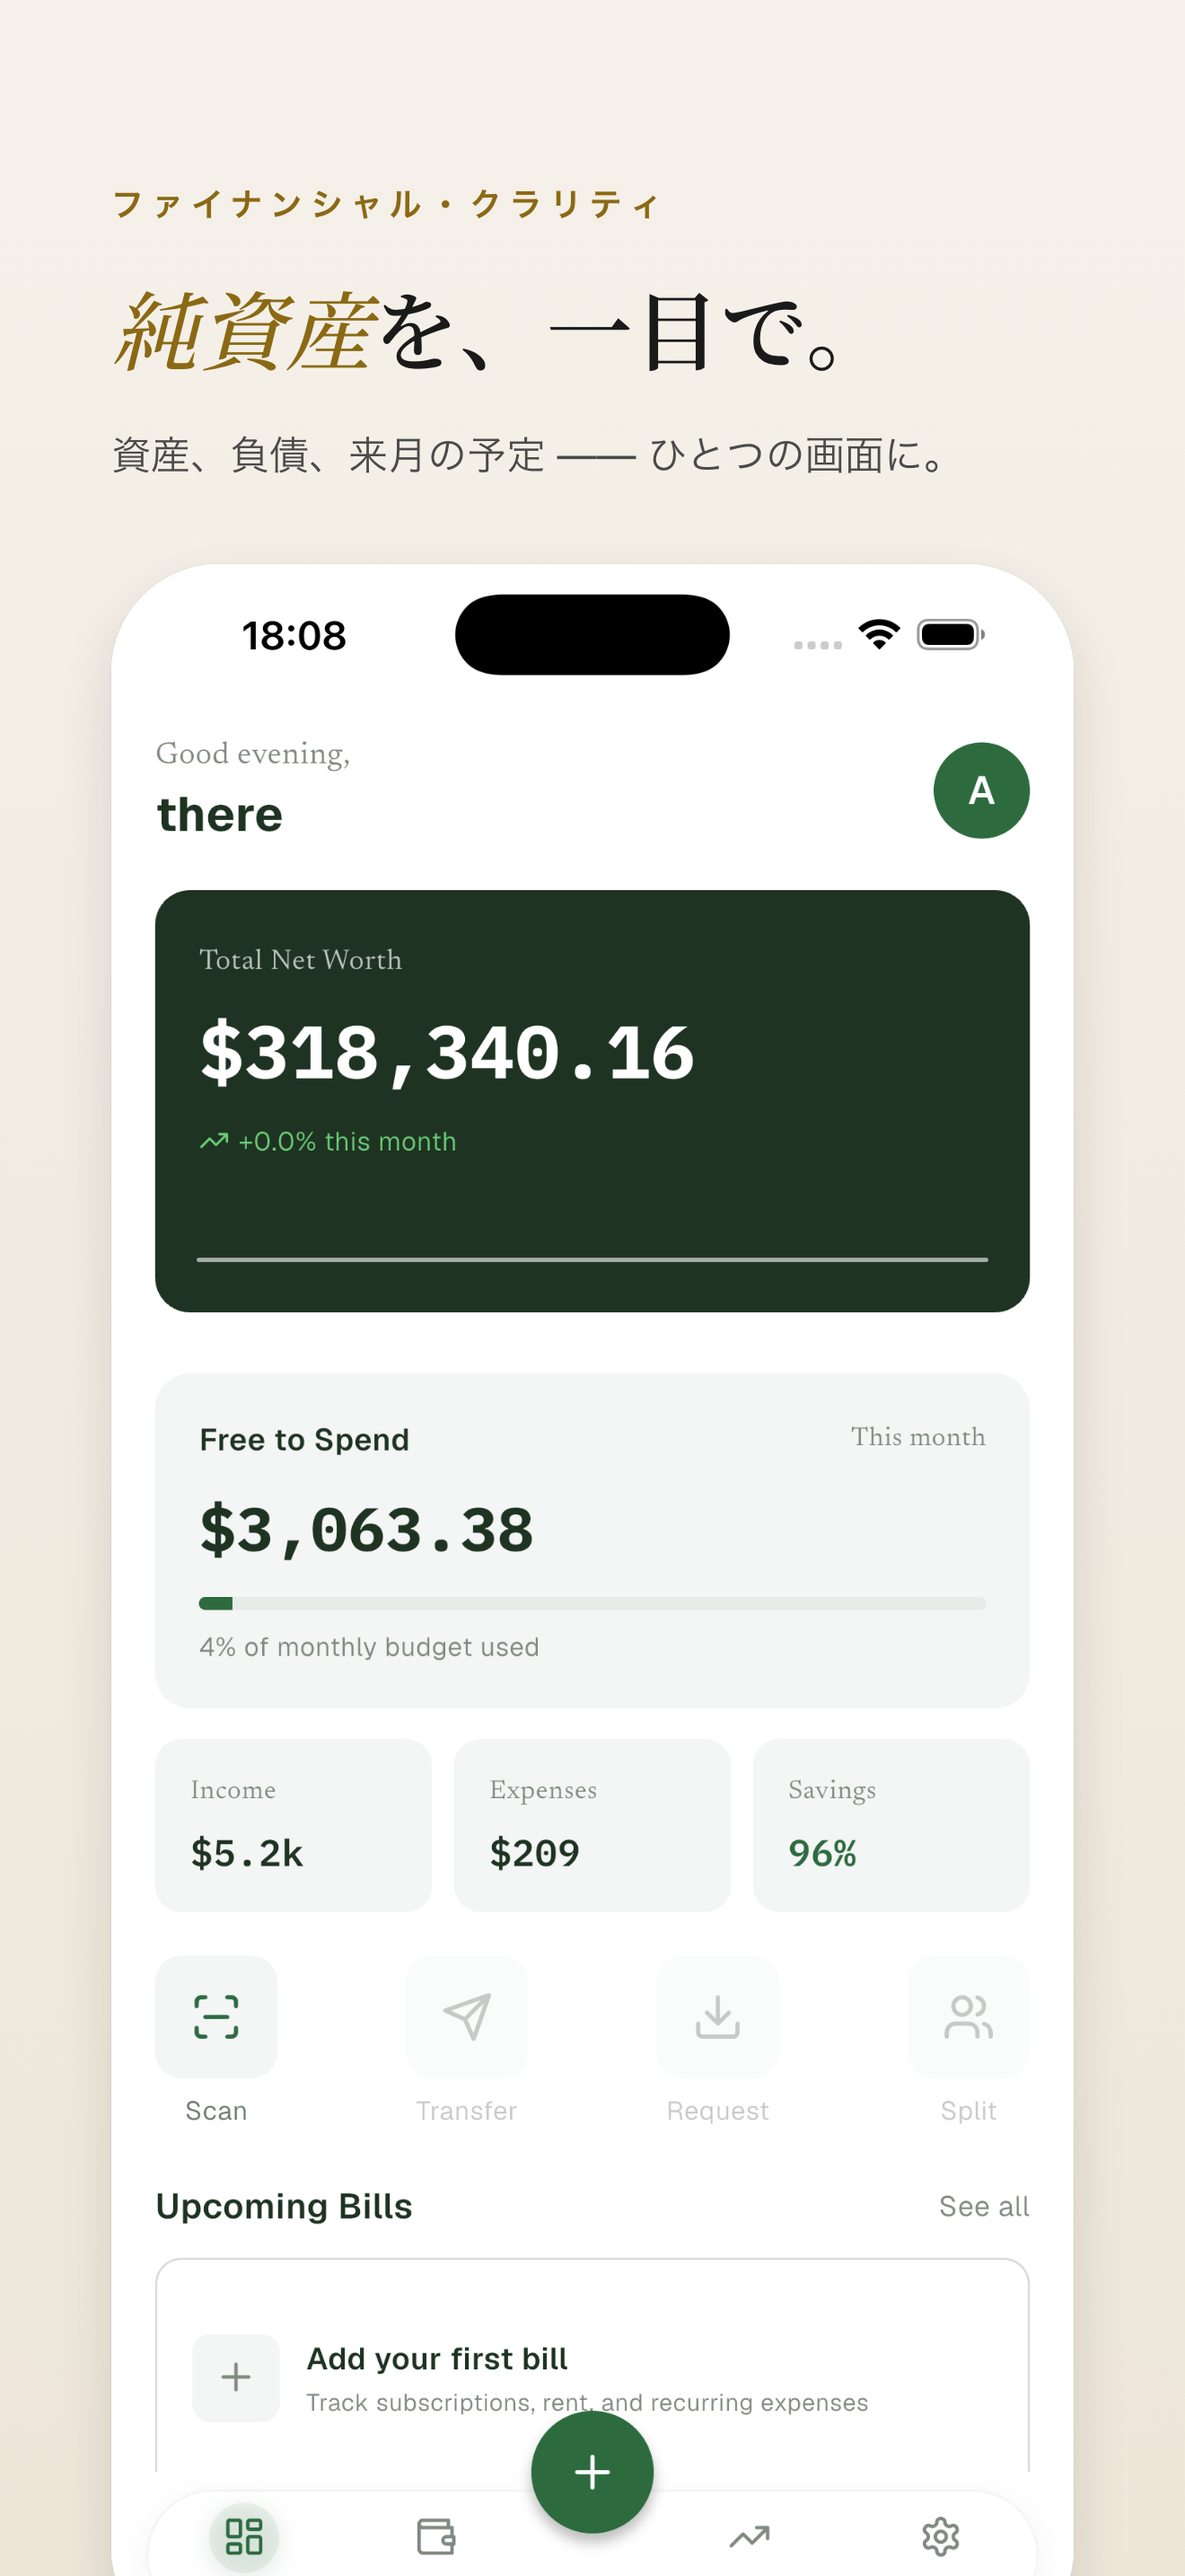
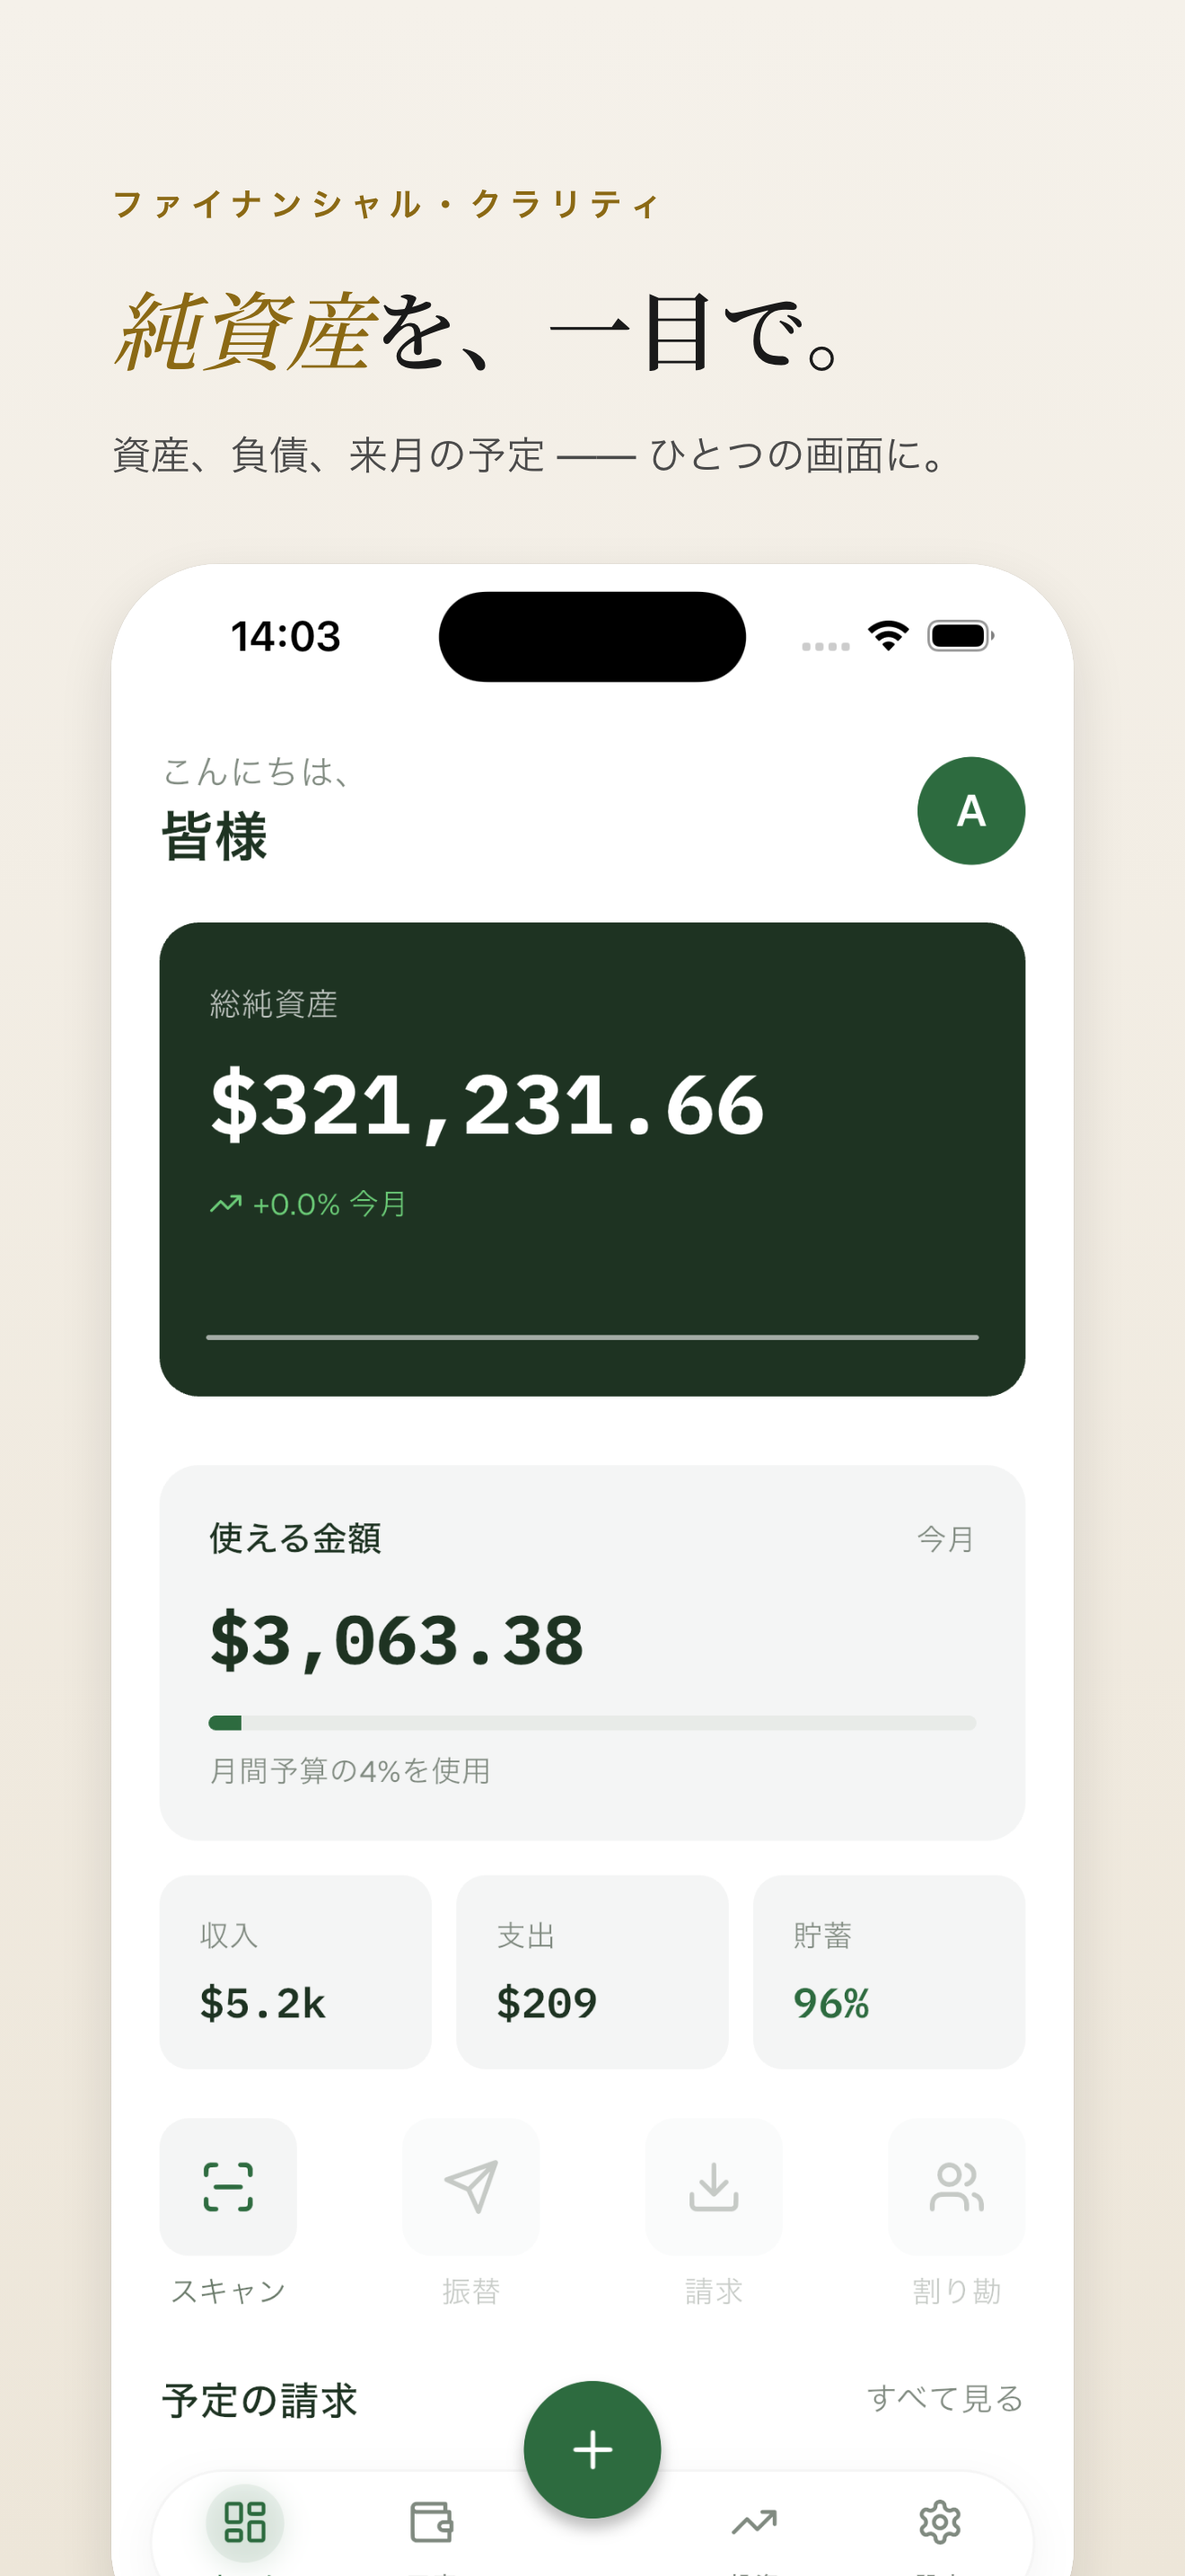
feat(i18n): add Korean (ko) locale; refresh zh/zh-Hant/ja/ko screenshots
- New ko locale: i18n/ko.json, /ko routes (index, features, privacy, terms),
  privacy-ko.md, terms-ko.md, registered in LOCALES, LOCALE_LABELS, astro.config
- Sync 9 updated app-store screenshots from moneywise/assets/appstore for
  zh, zh-Hant, ja, and add ko/ asset set

diff --git a/src/config/site.ts b/src/config/site.ts
@@ -1,4 +1,4 @@
-export const LOCALES = ['en', 'zh', 'zh-Hant', 'ja'] as const;
+export const LOCALES = ['en', 'zh', 'zh-Hant', 'ja', 'ko'] as const;
 export type Locale = typeof LOCALES[number];
 export const DEFAULT_LOCALE: Locale = 'en';
 
@@ -21,6 +21,7 @@ export const LOCALE_LABELS: Record<Locale, string> = {
   'zh': '简体中文',
   'zh-Hant': '繁體中文',
   'ja': '日本語',
+  'ko': '한국어',
 };
 
 export const PRICING = {

diff --git a/src/content/legal/privacy-ko.md b/src/content/legal/privacy-ko.md
@@ -1,0 +1,67 @@
+---
+title: 개인정보 처리방침
+effective: 2026-04-18
+---
+
+# 개인정보 처리방침
+
+**시행일:** 2026-04-18
+
+본 방침은 MoneyWise가 사용자의 데이터를 어떻게 처리하는지 설명합니다.
+
+## 요약 (TL;DR)
+
+- 모든 금융 기록은 암호화된 로컬 데이터베이스로 **사용자의 기기에** 저장됩니다.
+- 앱 내에서는 **개인을 식별할 수 있는 분석 데이터를 일절 수집하지 않습니다** — 크래시 리포터도, 트래킹 SDK도 사용하지 않습니다.
+- **클라우드 동기화**를 활성화하면 데이터는 기기를 떠나기 전에 암호화됩니다. 암호화된 행은 Supabase에 저장되며, 저희는 그 내용을 읽을 수 없습니다.
+- 본인의 API 키로 **AI 어드바이저**를 사용할 경우, 요청은 기기에서 AI 제공자에게 직접 전송됩니다. 저희는 그 요청을 중계하거나 기록하거나 라우팅하지 않습니다.
+- 이 웹사이트(`moneywise.airingdeng.com`)는 프라이버시를 존중하는 쿠키 없는 페이지뷰 분석을 위해 **Umami**를 사용합니다. IP 주소나 개인 식별 정보는 저장되지 않습니다.
+
+## MoneyWise가 수집하는 정보
+
+**사용자의 기기 안에서**(동기화를 활성화하지 않는 한 전송되지 않음):
+- 계정·잔액·거래 기록·예산·투자 보유 종목.
+- 사용자가 첨부하기로 선택한 영수증 이미지.
+- AI 제공자의 API 키 (iOS 키체인에 저장).
+
+**클라우드 동기화가 활성화된 경우**(Pro 구독자):
+- 위의 데이터를 암호화한 행 (저희가 운영하는 Supabase 서버에 저장). 암호화 키는 기기에 남아 있습니다.
+- Supabase 계정용 이메일 주소 (로그인 용도로만 사용).
+- 동기화 시 다른 기기를 식별하기 위한 기기 식별자.
+
+**Pro의 공용 AI 크레딧을 사용할 경우**(추후 기능, v1에는 포함되지 않음):
+- 사용자의 프롬프트와 어드바이저의 응답은 저희 Supabase Edge Function을 거쳐 라우팅됩니다. 로그는 남용 방지를 위해 7일간 보관된 뒤 삭제됩니다.
+
+**이 웹사이트에서:**
+- Umami가 기록하는 항목: 조회한 페이지·리퍼러·국가(대략)·브라우저/OS(대략)·화면 크기. 개인을 식별하는 정보는 포함되지 않습니다.
+- 쿠키 없음. 트래킹 픽셀 없음. 광고 네트워크 없음.
+
+## MoneyWise가 수집하지 **않는** 정보
+
+- 정확한 위치 정보를 수집하지 않습니다.
+- 데이터를 제3자에게 공유·판매·임대하지 않습니다.
+- 광고를 게재하지 않습니다.
+- 사용자의 금융 기록을 읽지 않습니다. 클라우드 동기화 데이터는 암호화되어 있어 저희에게는 불투명한 바이트 열로만 보입니다.
+
+## 사용자의 권한
+
+- **내보내기**: 앱 내에서 모든 기록을 CSV로 내보낼 수 있습니다.
+- **삭제**: 앱을 삭제하면 모든 로컬 데이터가 제거됩니다. 클라우드 동기화를 사용했다면 아래 연락처로 삭제 요청을 보내주세요.
+- **동기화 중지**: 설정에서 클라우드 동기화를 끄면 30일 이내에 서버에서 암호화된 행 데이터가 삭제됩니다.
+
+## 제3자 서비스
+
+| 서비스 | 용도 | 위치 |
+|---|---|---|
+| Supabase | 클라우드 동기화 백엔드, 인증 | eu-west (아일랜드) |
+| Apple | App Store, 인앱 결제, iCloud 키체인 | Apple |
+| 사용자가 선택한 AI 제공자 (Anthropic, OpenAI) | AI 어드바이저 요청은 사용자의 키로 기기에서 직접 전송 | 미국 |
+| Umami (셀프 호스트) | 익명 웹사이트 분석 | 저희 서버 |
+
+## 문의
+
+개인정보 관련 요청이나 문의: **bellehou2026@gmail.com**
+
+## 변경 사항
+
+본 방침을 변경하는 경우 위의 시행일을 갱신합니다. 중요한 변경이 있을 경우 다음 앱 실행 시 인앱 알림으로 안내합니다.

diff --git a/src/content/legal/terms-ko.md b/src/content/legal/terms-ko.md
@@ -1,0 +1,62 @@
+---
+title: 이용 약관
+effective: 2026-04-18
+---
+
+# 이용 약관
+
+**시행일:** 2026-04-18
+
+본 약관은 MoneyWise iOS 앱과 이 웹사이트의 이용에 적용됩니다.
+
+## 1. 운영자 정보
+
+MoneyWise는 개인 개발자(이하 "저희")가 운영합니다. 연락처: **bellehou2026@gmail.com**.
+
+## 2. MoneyWise란
+
+MoneyWise는 개인 가계부 도구입니다. 거래 기록·예산 설정·지출 분석을 도와줍니다. MoneyWise는 금융 기관·증권사·세무 자문·투자 자문이 **아닙니다**. MoneyWise 내의 어떠한 내용도 재무 자문에 해당하지 않습니다. 본인의 재무 의사결정은 본인의 책임입니다.
+
+## 3. 무료와 Pro
+
+- 무료: 단일 기기에서 무제한 사용. 계정 가입 불필요.
+- Pro: Apple App Store를 통해 제공되는 월간 또는 연간 자동 갱신 구독. 가격은 구매 시점에 표시되는 금액이 기준입니다. 구독 관리는 Apple ID를 통해 이루어집니다.
+
+## 4. 사용자의 데이터
+
+금융 기록은 사용자의 것입니다. 저장 및 처리에 관한 자세한 내용은 [개인정보 처리방침](/privacy/)을 참고하세요.
+
+## 5. 금지 사항
+
+다음 목적으로 MoneyWise를 사용하지 마세요:
+- 법률을 위반하는 행위;
+- 적용 법률이 허용하는 범위를 초과하는 리버스 엔지니어링;
+- 클라우드 동기화 서비스의 운영을 방해하는 행위.
+
+## 6. AI 기능
+
+AI 어드바이저는 사용자 본인의 API 키(무료) 또는 공용 크레딧(Pro)을 사용합니다. 어드바이저의 응답은 부정확하거나 오래되거나 오해를 불러올 수 있습니다. 세무 신고·투자 결정·법적 결론에 사용하지 마세요.
+
+## 7. 제3자 데이터
+
+투자 기능 안의 시장 가격은 제3자 데이터 제공자가 제공합니다. 정확성·시의성·완전성을 보장하지 않습니다. 개인적 용도로만 사용해 주세요.
+
+## 8. 보증의 면책
+
+MoneyWise는 어떠한 종류의 보증도 없이 **있는 그대로** 제공됩니다. 이용은 본인의 책임 하에 이루어집니다. 법률이 허용하는 최대 범위 내에서 모든 보증을 부인합니다.
+
+## 9. 책임의 제한
+
+법률이 허용하는 최대 범위 내에서 저희의 책임은 지난 12개월 동안 사용자가 지불한 금액(무료 사용자의 경우 $0일 수 있음)으로 제한됩니다.
+
+## 10. 약관 변경
+
+본 약관을 갱신할 수 있습니다. 중요한 변경이 있을 경우 다음 앱 실행 시 인앱 알림으로 안내합니다. 갱신 후 계속 사용하면 새 약관에 동의한 것으로 간주됩니다.
+
+## 11. 준거법
+
+본 약관은 법률 충돌 규정을 적용하지 않고 Singapore 법률에 따릅니다.
+
+## 12. 문의
+
+문의 사항: **bellehou2026@gmail.com**
